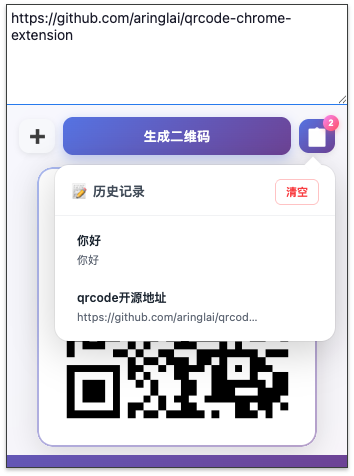
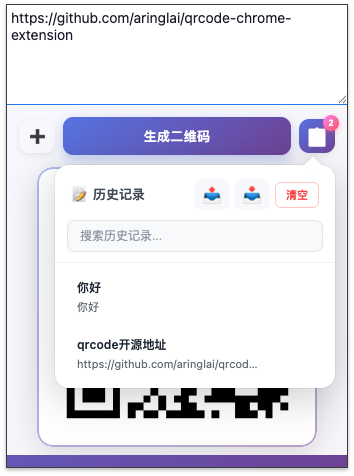
feat: 新增历史记录导入导出功能
- 在历史记录弹窗添加导出(��)和导入(📥)按钮
- 导出为 JSON 格式文件，包含版本号和导出时间
- 导入支持替换和合并两种模式
- 合并模式自动跳过重复项
- 安全处理无效日期值

diff --git a/src/popup.ts b/src/popup.ts
@@ -28,6 +28,9 @@ class PopupController {
   private favoritesSection: HTMLElement;
   private favoritesList: HTMLElement;
   private clearAllBtn: HTMLButtonElement;
+  private exportBtn: HTMLButtonElement;
+  private importBtn: HTMLButtonElement;
+  private importFileInput: HTMLInputElement;
   private storageInfo: HTMLElement;
   private storageUsage: HTMLElement;
   private favoritesCount: HTMLElement;
@@ -56,6 +59,9 @@ class PopupController {
       this.favoritesSection = document.getElementById('favoritesSection') as HTMLElement;
       this.favoritesList = document.getElementById('favoritesList') as HTMLElement;
       this.clearAllBtn = document.getElementById('clearAllBtn') as HTMLButtonElement;
+      this.exportBtn = document.getElementById('exportBtn') as HTMLButtonElement;
+      this.importBtn = document.getElementById('importBtn') as HTMLButtonElement;
+      this.importFileInput = document.getElementById('importFileInput') as HTMLInputElement;
       this.storageInfo = document.getElementById('storageInfo') as HTMLElement;
       this.storageUsage = document.getElementById('storageUsage') as HTMLElement;
       this.favoritesCount = document.getElementById('favoritesCount') as HTMLElement;
@@ -93,6 +99,9 @@ class PopupController {
     this.clearAllBtn.addEventListener('click', () => this.handleClearAllClick());
     this.historyBtn.addEventListener('click', () => this.toggleHistory());
     this.historySearch.addEventListener('input', () => this.handleSearchInput());
+    this.exportBtn.addEventListener('click', () => this.handleExportClick());
+    this.importBtn.addEventListener('click', () => this.handleImportClick());
+    this.importFileInput.addEventListener('change', (e) => this.handleFileSelect(e));
   }
 
   /**
@@ -266,6 +275,113 @@ class PopupController {
    */
   private handleTextInputFocus(): void {
     this.textInput.style.borderColor = '#4285f4';
+  }
+
+  /**
+   * Handle export button click
+   */
+  private async handleExportClick(): Promise<void> {
+    try {
+      const favorites = await this.favoritesManager.getFavorites();
+      
+      if (favorites.length === 0) {
+        this.showWarning('暂无记录可导出');
+        return;
+      }
+
+      this.exportBtn.textContent = '⏳';
+      
+      const jsonData = await this.storageService.exportHistory();
+      
+      // Create and download file
+      const blob = new Blob([jsonData], { type: 'application/json' });
+      const url = URL.createObjectURL(blob);
+      const a = document.createElement('a');
+      a.href = url;
+      a.download = `qr-history-${new Date().toISOString().slice(0, 10)}.json`;
+      document.body.appendChild(a);
+      a.click();
+      document.body.removeChild(a);
+      URL.revokeObjectURL(url);
+      
+      this.showSuccessMessage(`已导出 ${favorites.length} 条记录`);
+    } catch (error) {
+      console.error('Export error:', error);
+      this.showError('导出失败，请重试');
+    } finally {
+      this.exportBtn.textContent = '📤';
+    }
+  }
+
+  /**
+   * Handle import button click
+   */
+  private handleImportClick(): void {
+    this.importFileInput.click();
+  }
+
+  /**
+   * Handle file selection for import
+   */
+  private async handleFileSelect(event: Event): Promise<void> {
+    const input = event.target as HTMLInputElement;
+    const file = input.files?.[0];
+    
+    if (!file) return;
+    
+    try {
+      this.importBtn.textContent = '⏳';
+      
+      const jsonData = await this.readFileAsText(file);
+      
+      // Ask user for import mode
+      const existingCount = (await this.favoritesManager.getFavorites()).length;
+      let mode: 'merge' | 'replace' = 'merge';
+      
+      if (existingCount > 0) {
+        const replaceConfirmed = confirm(
+          `当前有 ${existingCount} 条记录。\n\n` +
+          `点击"确定"将替换所有现有记录\n` +
+          `点击"取消"将合并（跳过重复项）`
+        );
+        mode = replaceConfirmed ? 'replace' : 'merge';
+      }
+      
+      const result = await this.storageService.importHistory(jsonData, mode);
+      
+      await this.refreshFavoritesList();
+      await this.updateHistoryCount();
+      
+      let message = `已导入 ${result.imported} 条记录`;
+      if (result.skipped > 0) {
+        message += `，跳过 ${result.skipped} 条`;
+      }
+      this.showSuccessMessage(message);
+      
+    } catch (error) {
+      console.error('Import error:', error);
+      if (error instanceof Error) {
+        this.showError(error.message || '导入失败，请检查文件格式');
+      } else {
+        this.showError('导入失败，请检查文件格式');
+      }
+    } finally {
+      this.importBtn.textContent = '📥';
+      // Reset file input for re-selection
+      input.value = '';
+    }
+  }
+
+  /**
+   * Read file content as text
+   */
+  private readFileAsText(file: File): Promise<string> {
+    return new Promise((resolve, reject) => {
+      const reader = new FileReader();
+      reader.onload = () => resolve(reader.result as string);
+      reader.onerror = () => reject(new Error('文件读取失败'));
+      reader.readAsText(file);
+    });
   }
 
   /**

diff --git a/src/storage-service.ts b/src/storage-service.ts
@@ -304,4 +304,158 @@ export class StorageService {
       return true; // Assume space is available if check fails
     }
   }
+
+  /**
+   * Export history data to JSON format
+   * 
+   * @returns Promise resolving to JSON string of history data
+   */
+  async exportHistory(): Promise<string> {
+    try {
+      const storage = await this.loadExtensionStorage();
+      const exportData = {
+        version: '1.0',
+        exportedAt: new Date().toISOString(),
+        favorites: storage.favorites.map(entry => {
+          // Safely convert dates to ISO string
+          let createdAt: string;
+          let updatedAt: string;
+          
+          try {
+            createdAt = entry.createdAt instanceof Date && !isNaN(entry.createdAt.getTime())
+              ? entry.createdAt.toISOString()
+              : (typeof entry.createdAt === 'string' ? entry.createdAt : new Date().toISOString());
+          } catch {
+            createdAt = new Date().toISOString();
+          }
+          
+          try {
+            updatedAt = entry.updatedAt instanceof Date && !isNaN(entry.updatedAt.getTime())
+              ? entry.updatedAt.toISOString()
+              : (typeof entry.updatedAt === 'string' ? entry.updatedAt : new Date().toISOString());
+          } catch {
+            updatedAt = new Date().toISOString();
+          }
+          
+          return {
+            id: entry.id,
+            text: entry.text,
+            name: entry.name,
+            createdAt,
+            updatedAt
+          };
+        })
+      };
+      return JSON.stringify(exportData, null, 2);
+    } catch (error) {
+      throw new StorageError(
+        'Failed to export history data',
+        'exportHistory',
+        error instanceof Error ? error : undefined
+      );
+    }
+  }
+
+  /**
+   * Import history data from JSON format
+   * 
+   * @param jsonData JSON string containing history data
+   * @param mode Import mode: 'merge' to add to existing, 'replace' to overwrite
+   * @returns Promise resolving to import result with count of imported items
+   */
+  async importHistory(jsonData: string, mode: 'merge' | 'replace' = 'merge'): Promise<{ imported: number; skipped: number }> {
+    try {
+      const importData = JSON.parse(jsonData);
+      
+      // Validate import data structure
+      if (!this.isValidImportData(importData)) {
+        throw new StorageError(
+          '无效的导入文件格式',
+          'importHistory'
+        );
+      }
+
+      const storage = await this.loadExtensionStorage();
+      let imported = 0;
+      let skipped = 0;
+
+      if (mode === 'replace') {
+        // Replace mode: clear existing and import all
+        storage.favorites = importData.favorites.map((entry: any) => ({
+          id: entry.id || `qr_${Date.now()}_${Math.random().toString(36).substr(2, 9)}`,
+          text: entry.text,
+          name: entry.name,
+          createdAt: new Date(entry.createdAt),
+          updatedAt: new Date(entry.updatedAt)
+        }));
+        imported = storage.favorites.length;
+      } else {
+        // Merge mode: add new entries, skip duplicates by text
+        const existingTexts = new Set(storage.favorites.map(f => f.text));
+        
+        for (const entry of importData.favorites) {
+          if (existingTexts.has(entry.text)) {
+            skipped++;
+            continue;
+          }
+          
+          storage.favorites.push({
+            id: `qr_${Date.now()}_${Math.random().toString(36).substr(2, 9)}`,
+            text: entry.text,
+            name: entry.name,
+            createdAt: new Date(entry.createdAt),
+            updatedAt: new Date(entry.updatedAt)
+          });
+          existingTexts.add(entry.text);
+          imported++;
+        }
+      }
+
+      // Enforce max favorites limit
+      if (storage.favorites.length > storage.settings.maxFavorites) {
+        const excess = storage.favorites.length - storage.settings.maxFavorites;
+        storage.favorites = storage.favorites
+          .sort((a, b) => new Date(b.updatedAt).getTime() - new Date(a.updatedAt).getTime())
+          .slice(0, storage.settings.maxFavorites);
+        skipped += excess;
+      }
+
+      await this.saveExtensionStorage(storage);
+      
+      return { imported, skipped };
+    } catch (error) {
+      if (error instanceof StorageError) {
+        throw error;
+      }
+      if (error instanceof SyntaxError) {
+        throw new StorageError(
+          '无效的 JSON 格式',
+          'importHistory'
+        );
+      }
+      throw new StorageError(
+        'Failed to import history data',
+        'importHistory',
+        error instanceof Error ? error : undefined
+      );
+    }
+  }
+
+  /**
+   * Validate import data structure
+   */
+  private isValidImportData(obj: any): boolean {
+    if (!obj || typeof obj !== 'object') return false;
+    if (!Array.isArray(obj.favorites)) return false;
+    
+    return obj.favorites.every((entry: any) => {
+      return (
+        typeof entry === 'object' &&
+        entry !== null &&
+        typeof entry.text === 'string' &&
+        typeof entry.name === 'string' &&
+        entry.text.trim().length > 0
+      );
+    });
+  }
 }

diff --git a/popup.html b/popup.html
@@ -31,8 +31,13 @@
                             <div class="popper-arrow"></div>
                             <div class="favorites-header">
                                 <span class="favorites-title">历史记录</span>
-                                <button id="clearAllBtn" class="clear-all-btn" title="清空全部">清空</button>
+                                <div class="header-actions">
+                                    <button id="exportBtn" class="action-icon-btn" title="导出">📤</button>
+                                    <button id="importBtn" class="action-icon-btn" title="导入">📥</button>
+                                    <button id="clearAllBtn" class="clear-all-btn" title="清空全部">清空</button>
+                                </div>
                             </div>
+                            <input type="file" id="importFileInput" accept=".json" style="display: none;" />
                             <div class="search-wrapper">
                                 <input type="text" id="historySearch" class="history-search" placeholder="搜索历史记录..." />
                             </div>

diff --git a/styles/popup.css b/styles/popup.css
@@ -234,6 +234,31 @@ body {
     padding: 14px 16px 10px;
 }
 
+.header-actions {
+    display: flex;
+    gap: 6px;
+    align-items: center;
+}
+
+.action-icon-btn {
+    background: #f8f9fc;
+    border: none;
+    padding: 4px 8px;
+    border-radius: 6px;
+    cursor: pointer;
+    transition: all 0.2s ease;
+    font-size: 14px;
+}
+
+.action-icon-btn:hover {
+    background: #e5e7eb;
+    transform: translateY(-1px);
+}
+
+.action-icon-btn:active {
+    transform: translateY(0);
+}
+
 /* Search wrapper */
 .search-wrapper {
     padding: 0 12px 10px;
